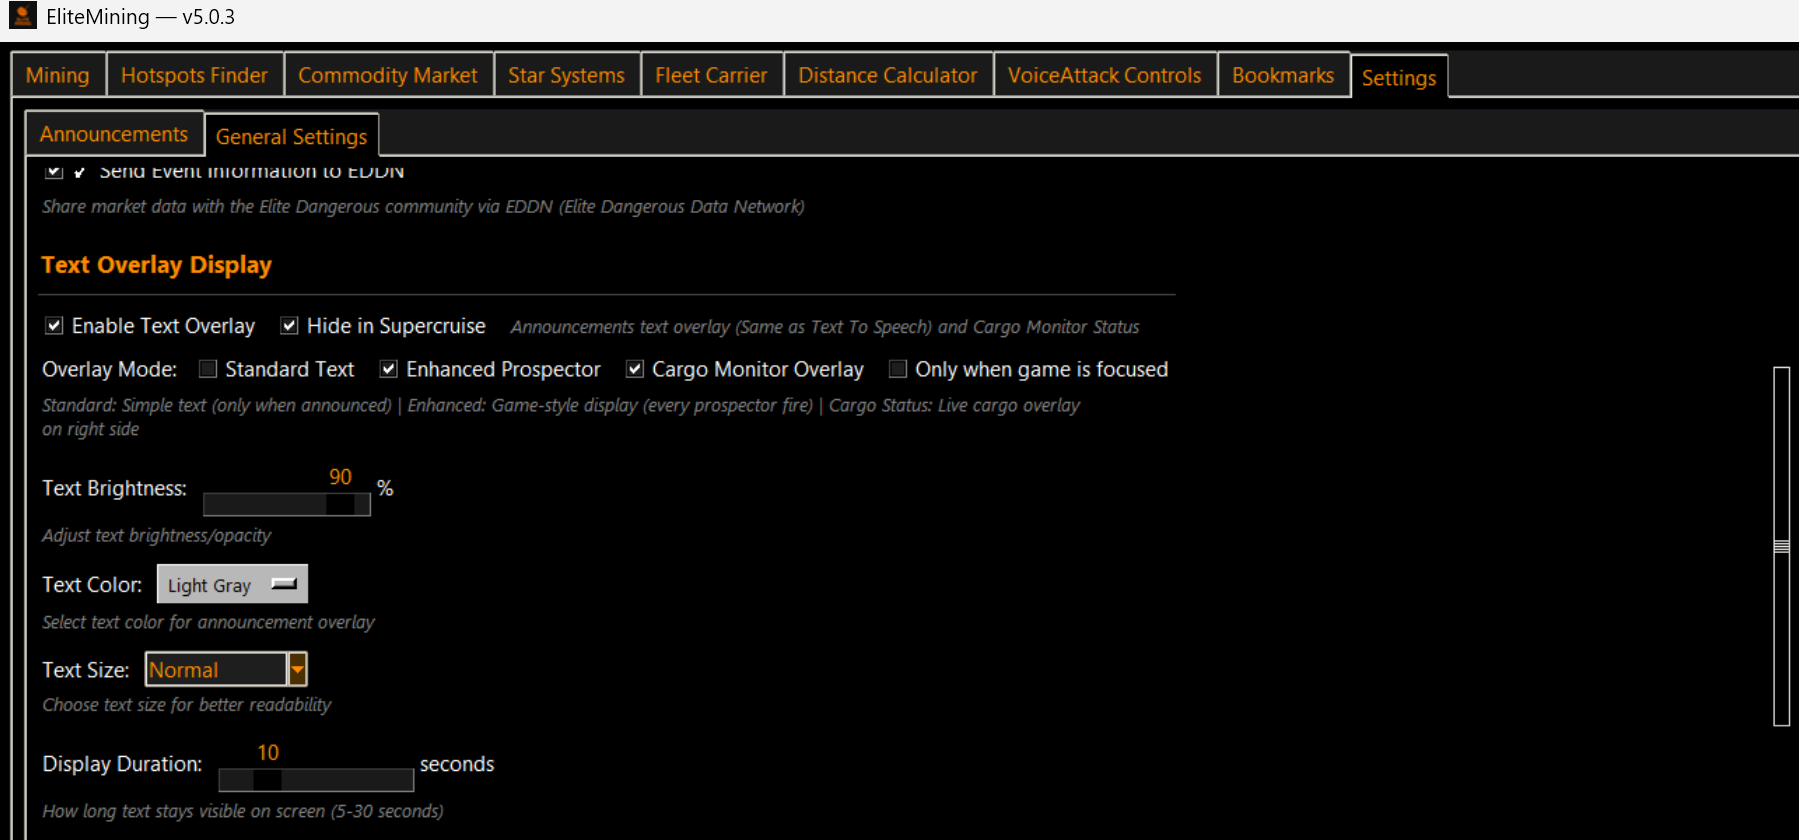
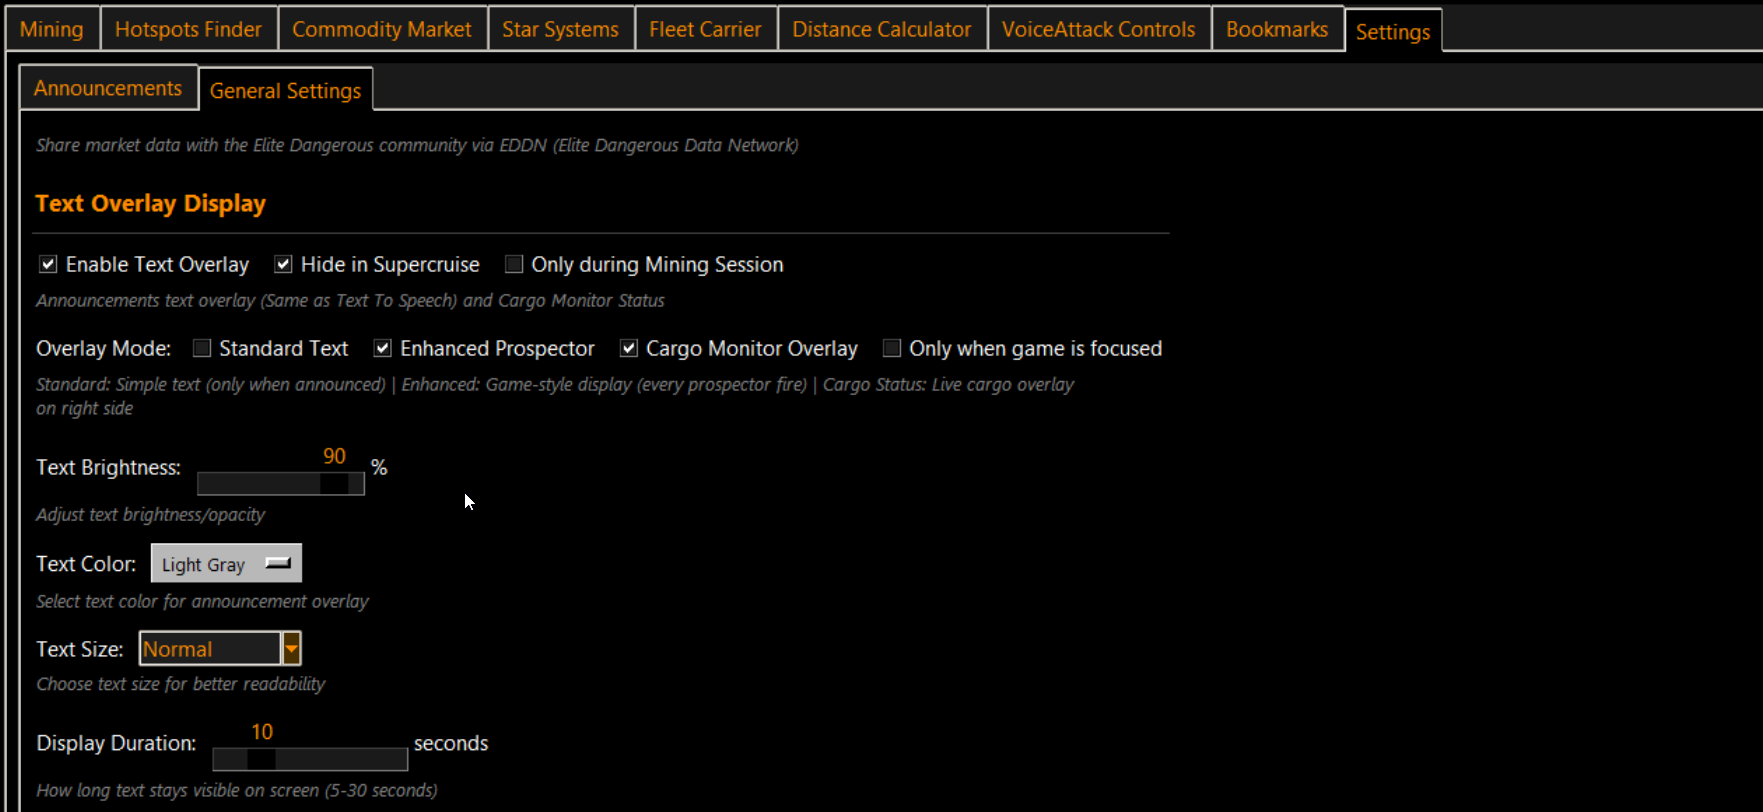
v5.0.3: Add Only during Mining Session to README, update overlay settings screenshot

Changed region(s): [[0.0, 0.0, 1.0, 1.0], [0.9671, 0.431, 0.9983, 0.8621], [0.1872, 0.7389, 0.2184, 0.7697]]

diff --git a/README.md b/README.md
@@ -562,6 +562,8 @@ Cards saved to: `app/Reports/Mining Session/Cards/`
 
 > **Hide in Supercruise:** Enable "Hide in Supercruise" in the General Settings tab to automatically hide all text overlays (including cargo status) while in supercruise. Overlays are instantly restored when you drop out of supercruise.
 
+> **Only during Mining Session:** Enable "Only during Mining Session" to show overlays only while a mining session is active. When no session is running, overlays stay hidden to keep your screen clean.
+
 <img src="Screenshot/txt_overlay_settings.png" width="900"><br>
 *Text overlay settings in the General Settings tab.*
 
